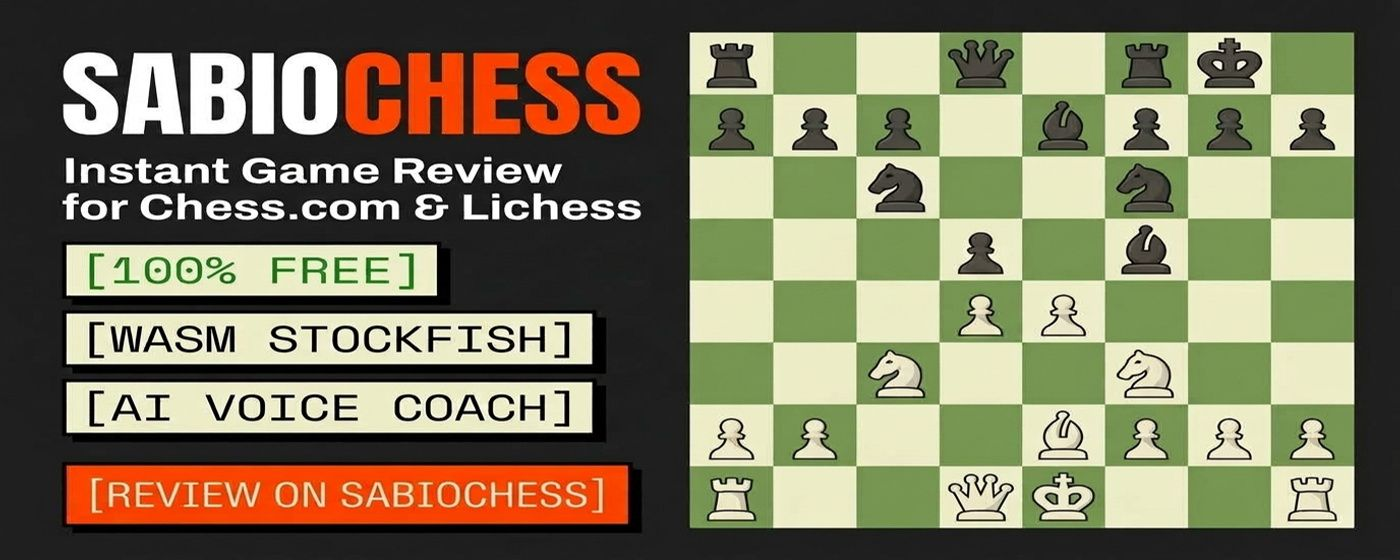
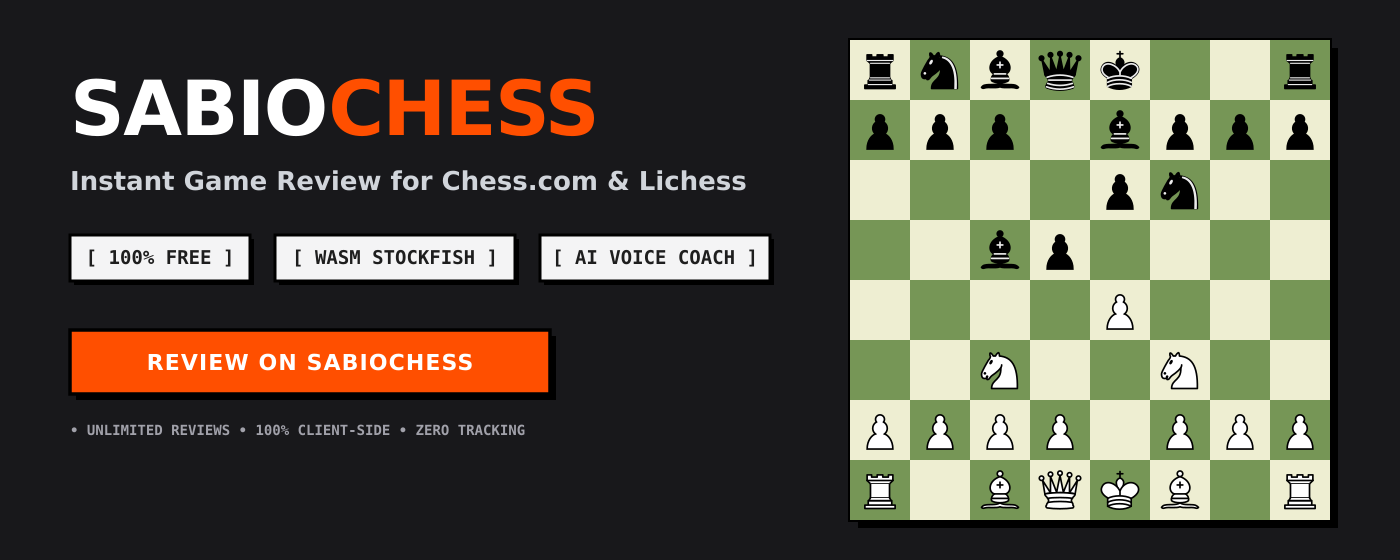
fix(assets): generate pixel-perfect vector promo tiles with exact ratios [skip ci]

diff --git a/scripts/generate-promo-tiles.js b/scripts/generate-promo-tiles.js
@@ -1,0 +1,259 @@
+const fs = require('fs');
+const path = require('path');
+const sharp = require('sharp');
+
+// Load piece SVGs
+const piecesDir = path.join(__dirname, '../public/pieces');
+function getPieceSvg(name) {
+  const file = path.join(piecesDir, name + '.svg');
+  if (fs.existsSync(file)) {
+    let content = fs.readFileSync(file, 'utf8');
+    // Strip XML decl and outer svg tags to embed as inner group
+    content = content.replace(/<\?xml.*?\?>/gi, '');
+    const viewBoxMatch = content.match(/viewBox="([^"]+)"/);
+    const viewBox = viewBoxMatch ? viewBoxMatch[1] : '0 0 45 45';
+    const inner = content.replace(/<svg[^>]*>/, '').replace(/<\/svg>/, '');
+    return { viewBox, inner };
+  }
+  return null;
+}
+
+const pieces = {
+  r: getPieceSvg('bR'),
+  n: getPieceSvg('bN'),
+  b: getPieceSvg('bB'),
+  q: getPieceSvg('bQ'),
+  k: getPieceSvg('bK'),
+  p: getPieceSvg('bP'),
+  R: getPieceSvg('wR'),
+  N: getPieceSvg('wN'),
+  B: getPieceSvg('wB'),
+  Q: getPieceSvg('wQ'),
+  K: getPieceSvg('wK'),
+  P: getPieceSvg('wP')
+};
+
+// Standard Opening / Tactical Board position (Ruy Lopez / Italian Game)
+const boardLayout = [
+  ['r', 'n', 'b', 'q', 'k', '', '', 'r'],
+  ['p', 'p', 'p', '', 'b', 'p', 'p', 'p'],
+  ['', '', '', '', 'p', 'n', '', ''],
+  ['', '', 'b', 'p', '', '', '', ''],
+  ['', '', '', '', 'P', '', '', ''],
+  ['', '', 'N', '', '', 'N', '', ''],
+  ['P', 'P', 'P', 'P', '', 'P', 'P', 'P'],
+  ['R', '', 'B', 'Q', 'K', 'B', '', 'R']
+];
+
+function generateBoardSvg(boardX, boardY, boardSize) {
+  const sqSize = boardSize / 8;
+  let svg = `
+  <!-- Chessboard Container with Neubrutalist Shadow -->
+  <g transform="translate(${boardX}, ${boardY})">
+    <!-- Shadow -->
+    <rect x="8" y="8" width="${boardSize}" height="${boardSize}" fill="#000000" />
+    <!-- Outer Border -->
+    <rect x="0" y="0" width="${boardSize}" height="${boardSize}" fill="#222222" stroke="#000000" stroke-width="4" />
+    <!-- Squares -->
+  `;
+
+  for (let r = 0; r < 8; r++) {
+    for (let c = 0; c < 8; c++) {
+      const isLight = (r + c) % 2 === 0;
+      const color = isLight ? '#EEEED2' : '#769656';
+      const x = c * sqSize;
+      const y = r * sqSize;
+      svg += `<rect x="${x}" y="${y}" width="${sqSize}" height="${sqSize}" fill="${color}" />\n`;
+
+      const pieceKey = boardLayout[r][c];
+      if (pieceKey && pieces[pieceKey]) {
+        const p = pieces[pieceKey];
+        const padding = sqSize * 0.08;
+        const pSize = sqSize - padding * 2;
+        svg += `
+        <svg x="${x + padding}" y="${y + padding}" width="${pSize}" height="${pSize}" viewBox="${p.viewBox}">
+          ${p.inner}
+        </svg>
+        `;
+      }
+    }
+  }
+
+  svg += `</g>`;
+  return svg;
+}
+
+function generateMarqueeSvg() {
+  const width = 1400;
+  const height = 560;
+  const boardSize = 480;
+  const boardX = 850;
+  const boardY = 40;
+
+  const boardSvg = generateBoardSvg(boardX, boardY, boardSize);
+
+  return `
+  <svg width="${width}" height="${height}" viewBox="0 0 ${width} ${height}" xmlns="http://www.w3.org/2000/svg">
+    <defs>
+      <style>
+        @import url('https://fonts.googleapis.com/css2?family=Archivo+Black&amp;family=Outfit:wght@600;700;800&amp;family=Space+Mono:wght@700&amp;display=swap');
+        .title { font-family: 'Archivo Black', 'Impact', sans-serif; font-size: 76px; font-weight: 900; letter-spacing: -0.02em; }
+        .subtitle { font-family: 'Outfit', -apple-system, sans-serif; font-size: 26px; font-weight: 700; fill: #D1D5DB; }
+        .pill-text { font-family: 'Space Mono', monospace; font-size: 19px; font-weight: 700; fill: #1E1E1E; }
+        .btn-text { font-family: 'Outfit', sans-serif; font-size: 22px; font-weight: 800; fill: #FFFFFF; letter-spacing: 0.05em; text-transform: uppercase; }
+      </style>
+    </defs>
+
+    <!-- Background -->
+    <rect width="${width}" height="${height}" fill="#18181B" />
+
+    <!-- Left Content Column -->
+    <g transform="translate(70, 75)">
+      <!-- Title -->
+      <text x="0" y="60" class="title">
+        <tspan fill="#FFFFFF">SABIO</tspan><tspan fill="#FF4F00">CHESS</tspan>
+      </text>
+
+      <!-- Subtitle -->
+      <text x="0" y="115" class="subtitle">
+        Instant Game Review for Chess.com &amp; Lichess
+      </text>
+
+      <!-- 3 Neubrutalist Pills -->
+      <g transform="translate(0, 160)">
+        <!-- Pill 1: 100% FREE -->
+        <g transform="translate(0, 0)">
+          <rect x="4" y="4" width="180" height="46" fill="#000000" />
+          <rect x="0" y="0" width="180" height="46" fill="#F4F4F5" stroke="#000000" stroke-width="3" />
+          <text x="90" y="29" text-anchor="middle" class="pill-text">[ 100% FREE ]</text>
+        </g>
+
+        <!-- Pill 2: WASM STOCKFISH -->
+        <g transform="translate(205, 0)">
+          <rect x="4" y="4" width="240" height="46" fill="#000000" />
+          <rect x="0" y="0" width="240" height="46" fill="#F4F4F5" stroke="#000000" stroke-width="3" />
+          <text x="120" y="29" text-anchor="middle" class="pill-text">[ WASM STOCKFISH ]</text>
+        </g>
+
+        <!-- Pill 3: AI VOICE COACH -->
+        <g transform="translate(470, 0)">
+          <rect x="4" y="4" width="230" height="46" fill="#000000" />
+          <rect x="0" y="0" width="230" height="46" fill="#F4F4F5" stroke="#000000" stroke-width="3" />
+          <text x="115" y="29" text-anchor="middle" class="pill-text">[ AI VOICE COACH ]</text>
+        </g>
+      </g>
+
+      <!-- Orange CTA Button -->
+      <g transform="translate(0, 255)">
+        <rect x="6" y="6" width="480" height="64" fill="#000000" />
+        <rect x="0" y="0" width="480" height="64" fill="#FF4F00" stroke="#000000" stroke-width="3.5" />
+        <text x="240" y="40" text-anchor="middle" class="btn-text">REVIEW ON SABIOCHESS</text>
+      </g>
+
+      <!-- Trust Badges Under Button -->
+      <g transform="translate(0, 360)">
+        <text x="0" y="0" font-family="'Space Mono', monospace" font-size="14px" fill="#A1A1AA" font-weight="700">
+          • UNLIMITED REVIEWS   • 100% CLIENT-SIDE   • ZERO TRACKING
+        </text>
+      </g>
+    </g>
+
+    <!-- Right Column: Chessboard -->
+    ${boardSvg}
+  </svg>
+  `;
+}
+
+function generateSmallSvg() {
+  const width = 440;
+  const height = 280;
+  const boardSize = 230;
+  const boardX = 195;
+  const boardY = 25;
+
+  const boardSvg = generateBoardSvg(boardX, boardY, boardSize);
+
+  return `
+  <svg width="${width}" height="${height}" viewBox="0 0 ${width} ${height}" xmlns="http://www.w3.org/2000/svg">
+    <defs>
+      <style>
+        @import url('https://fonts.googleapis.com/css2?family=Archivo+Black&amp;family=Outfit:wght@700;800&amp;family=Space+Mono:wght@700&amp;display=swap');
+        .title-sm { font-family: 'Archivo Black', 'Impact', sans-serif; font-size: 27px; font-weight: 900; letter-spacing: -0.02em; }
+        .pill-text-sm { font-family: 'Space Mono', monospace; font-size: 10px; font-weight: 700; fill: #1E1E1E; }
+        .btn-text-sm { font-family: 'Outfit', sans-serif; font-size: 10.5px; font-weight: 800; fill: #FFFFFF; letter-spacing: 0.04em; text-transform: uppercase; }
+      </style>
+    </defs>
+
+    <!-- Background -->
+    <rect width="${width}" height="${height}" fill="#18181B" />
+
+    <!-- Left Content Column -->
+    <g transform="translate(18, 35)">
+      <!-- Title -->
+      <text x="0" y="24" class="title-sm">
+        <tspan fill="#FFFFFF">SABIO</tspan><tspan fill="#FF4F00">CHESS</tspan>
+      </text>
+
+      <!-- Subtitle -->
+      <text x="0" y="45" font-family="'Outfit', sans-serif" font-size="10.5px" font-weight="700" fill="#D1D5DB">
+        Chess.com &amp; Lichess Reviewer
+      </text>
+
+      <!-- Pill 1: 100% FREE -->
+      <g transform="translate(0, 68)">
+        <rect x="2.5" y="2.5" width="145" height="24" fill="#000000" />
+        <rect x="0" y="0" width="145" height="24" fill="#F4F4F5" stroke="#000000" stroke-width="2" />
+        <text x="72.5" y="16" text-anchor="middle" class="pill-text-sm">[ 100% FREE REVIEW ]</text>
+      </g>
+
+      <!-- Pill 2: WASM STOCKFISH -->
+      <g transform="translate(0, 104)">
+        <rect x="2.5" y="2.5" width="145" height="24" fill="#000000" />
+        <rect x="0" y="0" width="145" height="24" fill="#F4F4F5" stroke="#000000" stroke-width="2" />
+        <text x="72.5" y="16" text-anchor="middle" class="pill-text-sm">[ WASM STOCKFISH ]</text>
+      </g>
+
+      <!-- Orange CTA Button -->
+      <g transform="translate(0, 142)">
+        <rect x="3" y="3" width="160" height="34" fill="#000000" />
+        <rect x="0" y="0" width="160" height="34" fill="#FF4F00" stroke="#000000" stroke-width="2" />
+        <text x="80" y="21.5" text-anchor="middle" class="btn-text-sm">REVIEW ON SABIOCHESS</text>
+      </g>
+    </g>
+
+    <!-- Right Column: Chessboard -->
+    ${boardSvg}
+  </svg>
+  `;
+}
+
+async function run() {
+  const marqueeSvg = generateMarqueeSvg();
+  const smallSvg = generateSmallSvg();
+
+  fs.mkdirSync(path.join(__dirname, '../promo'), { recursive: true });
+
+  // Render Marquee 1400x560
+  await sharp(Buffer.from(marqueeSvg))
+    .jpeg({ quality: 96, chromaSubsampling: '4:4:4' })
+    .toFile(path.join(__dirname, '../promo/marquee-promo-tile-1400x560.jpg'));
+
+  await sharp(Buffer.from(marqueeSvg))
+    .png({ progressive: false })
+    .removeAlpha()
+    .toFile(path.join(__dirname, '../promo/marquee-promo-tile-1400x560.png'));
+
+  // Render Small 440x280
+  await sharp(Buffer.from(smallSvg))
+    .jpeg({ quality: 96, chromaSubsampling: '4:4:4' })
+    .toFile(path.join(__dirname, '../promo/small-promo-tile-440x280.jpg'));
+
+  await sharp(Buffer.from(smallSvg))
+    .png({ progressive: false })
+    .removeAlpha()
+    .toFile(path.join(__dirname, '../promo/small-promo-tile-440x280.png'));
+
+  console.log('Successfully generated pixel-perfect vector promo tiles!');
+}
+
+run().catch(console.error);
